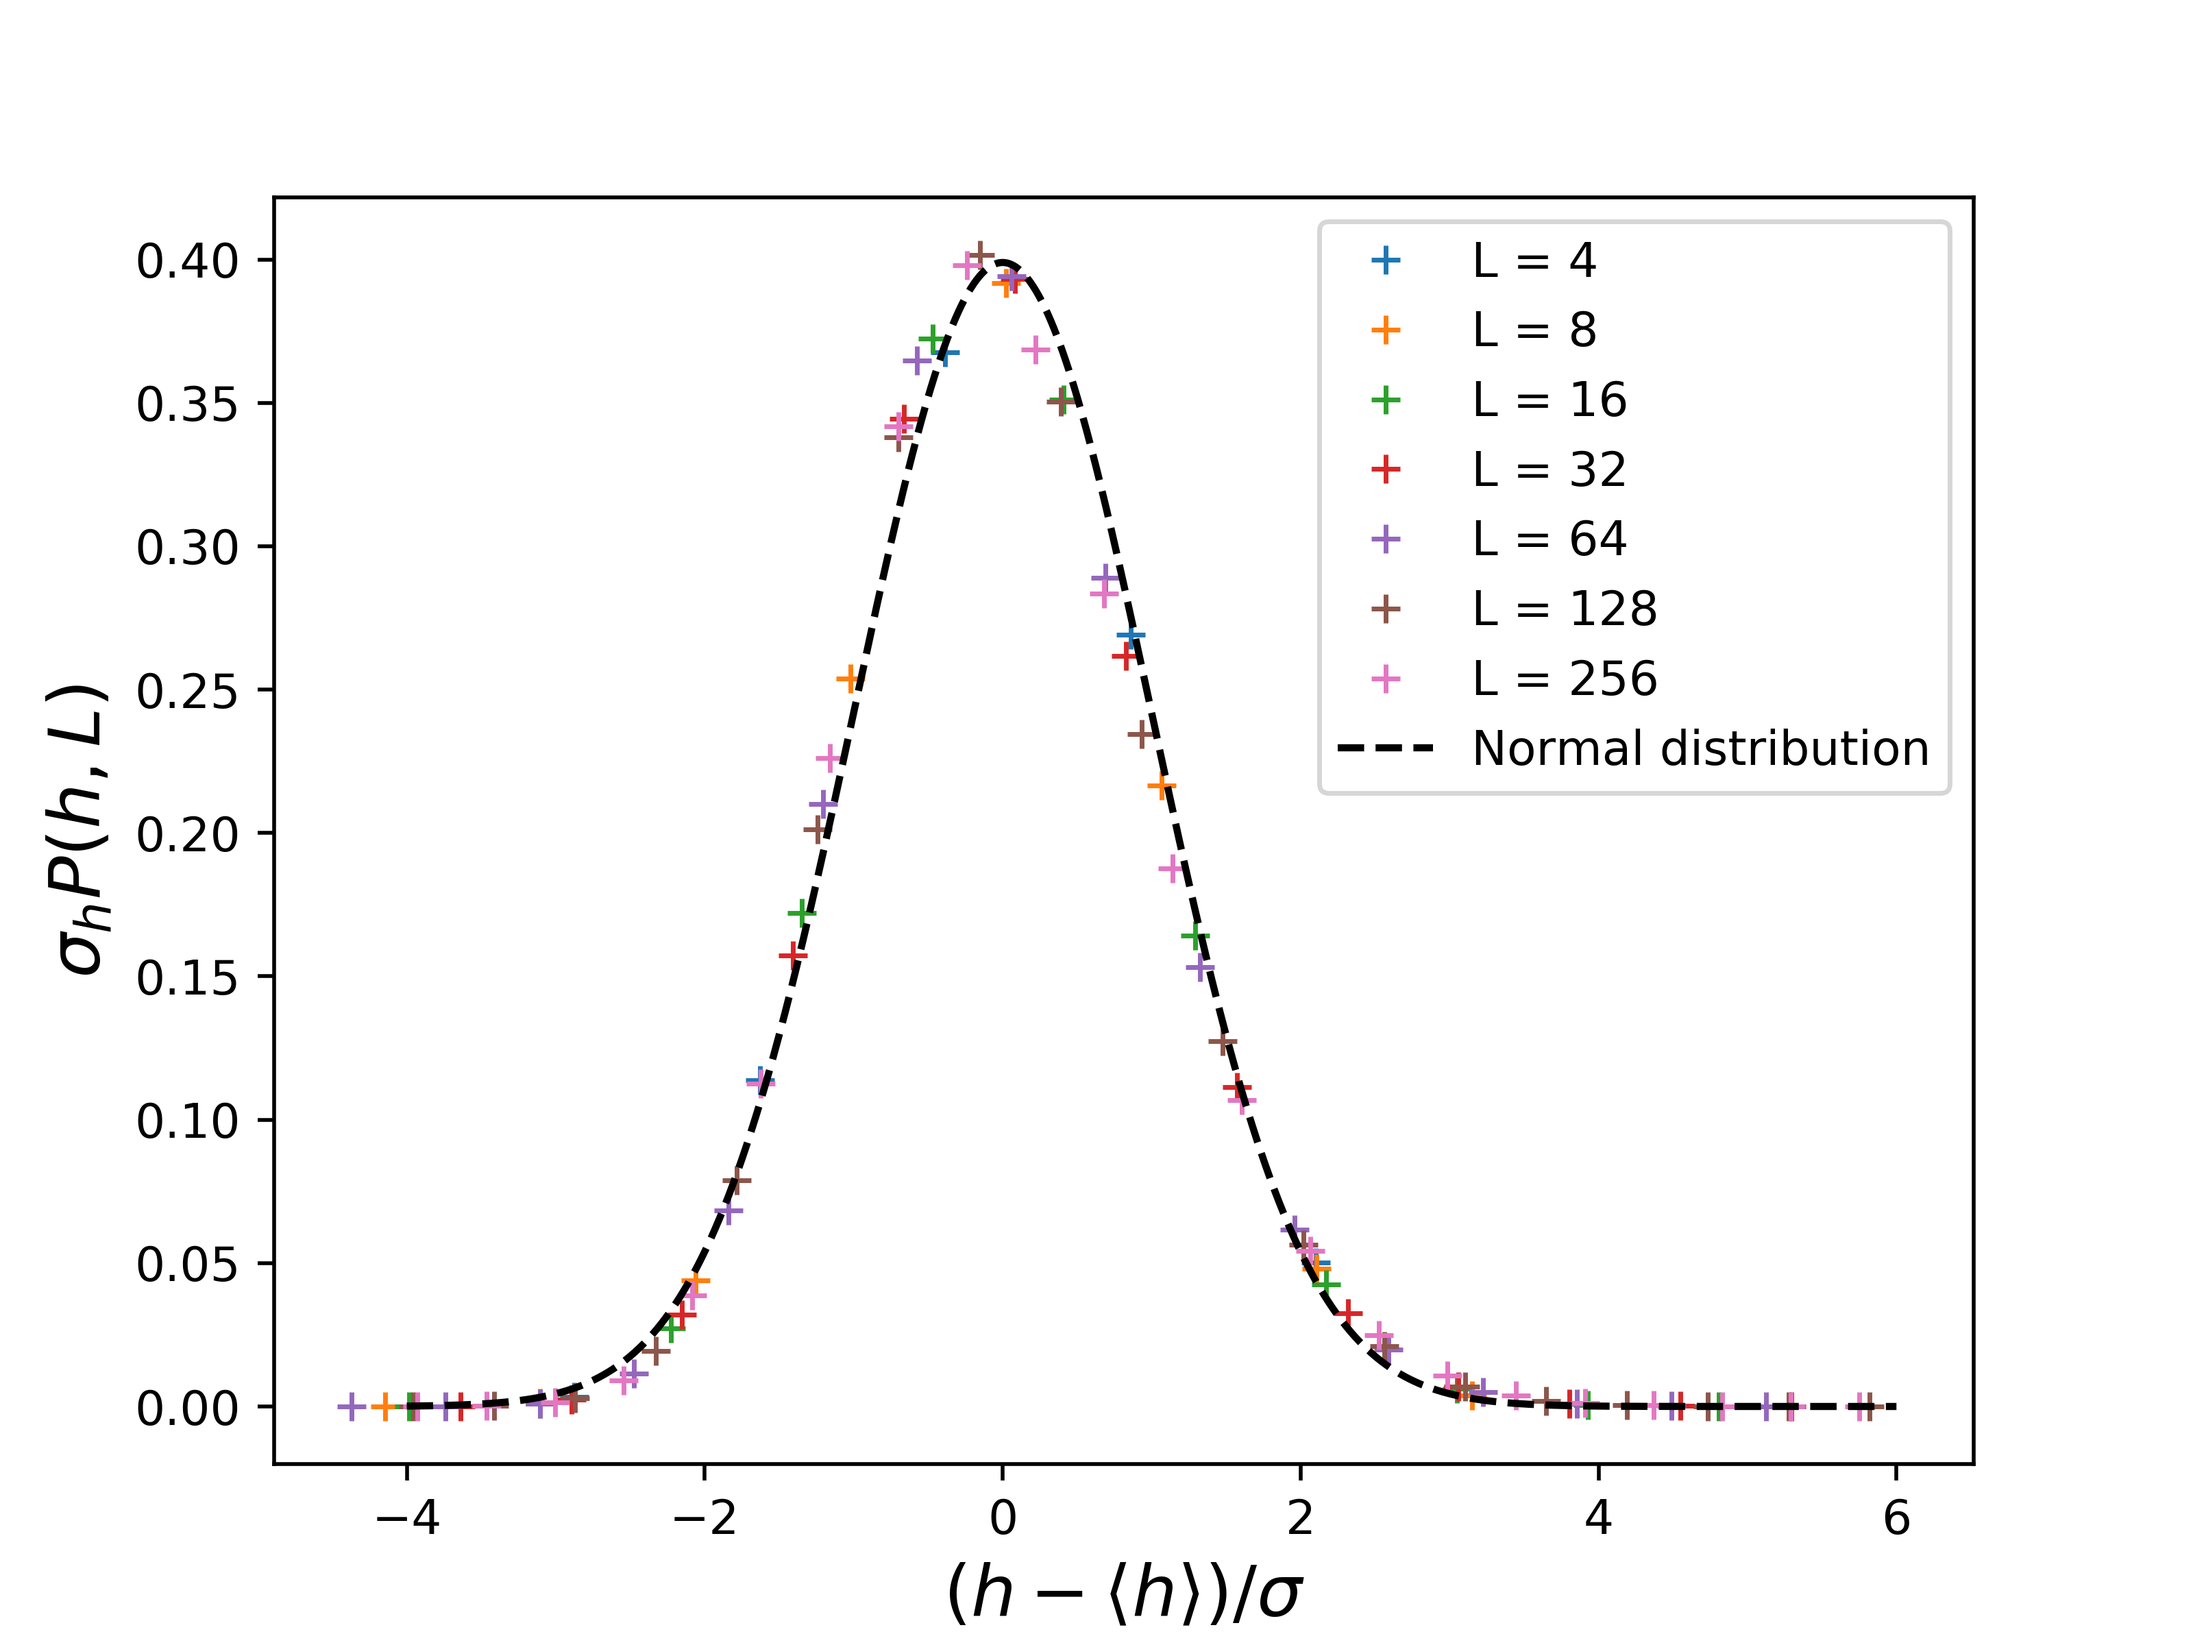
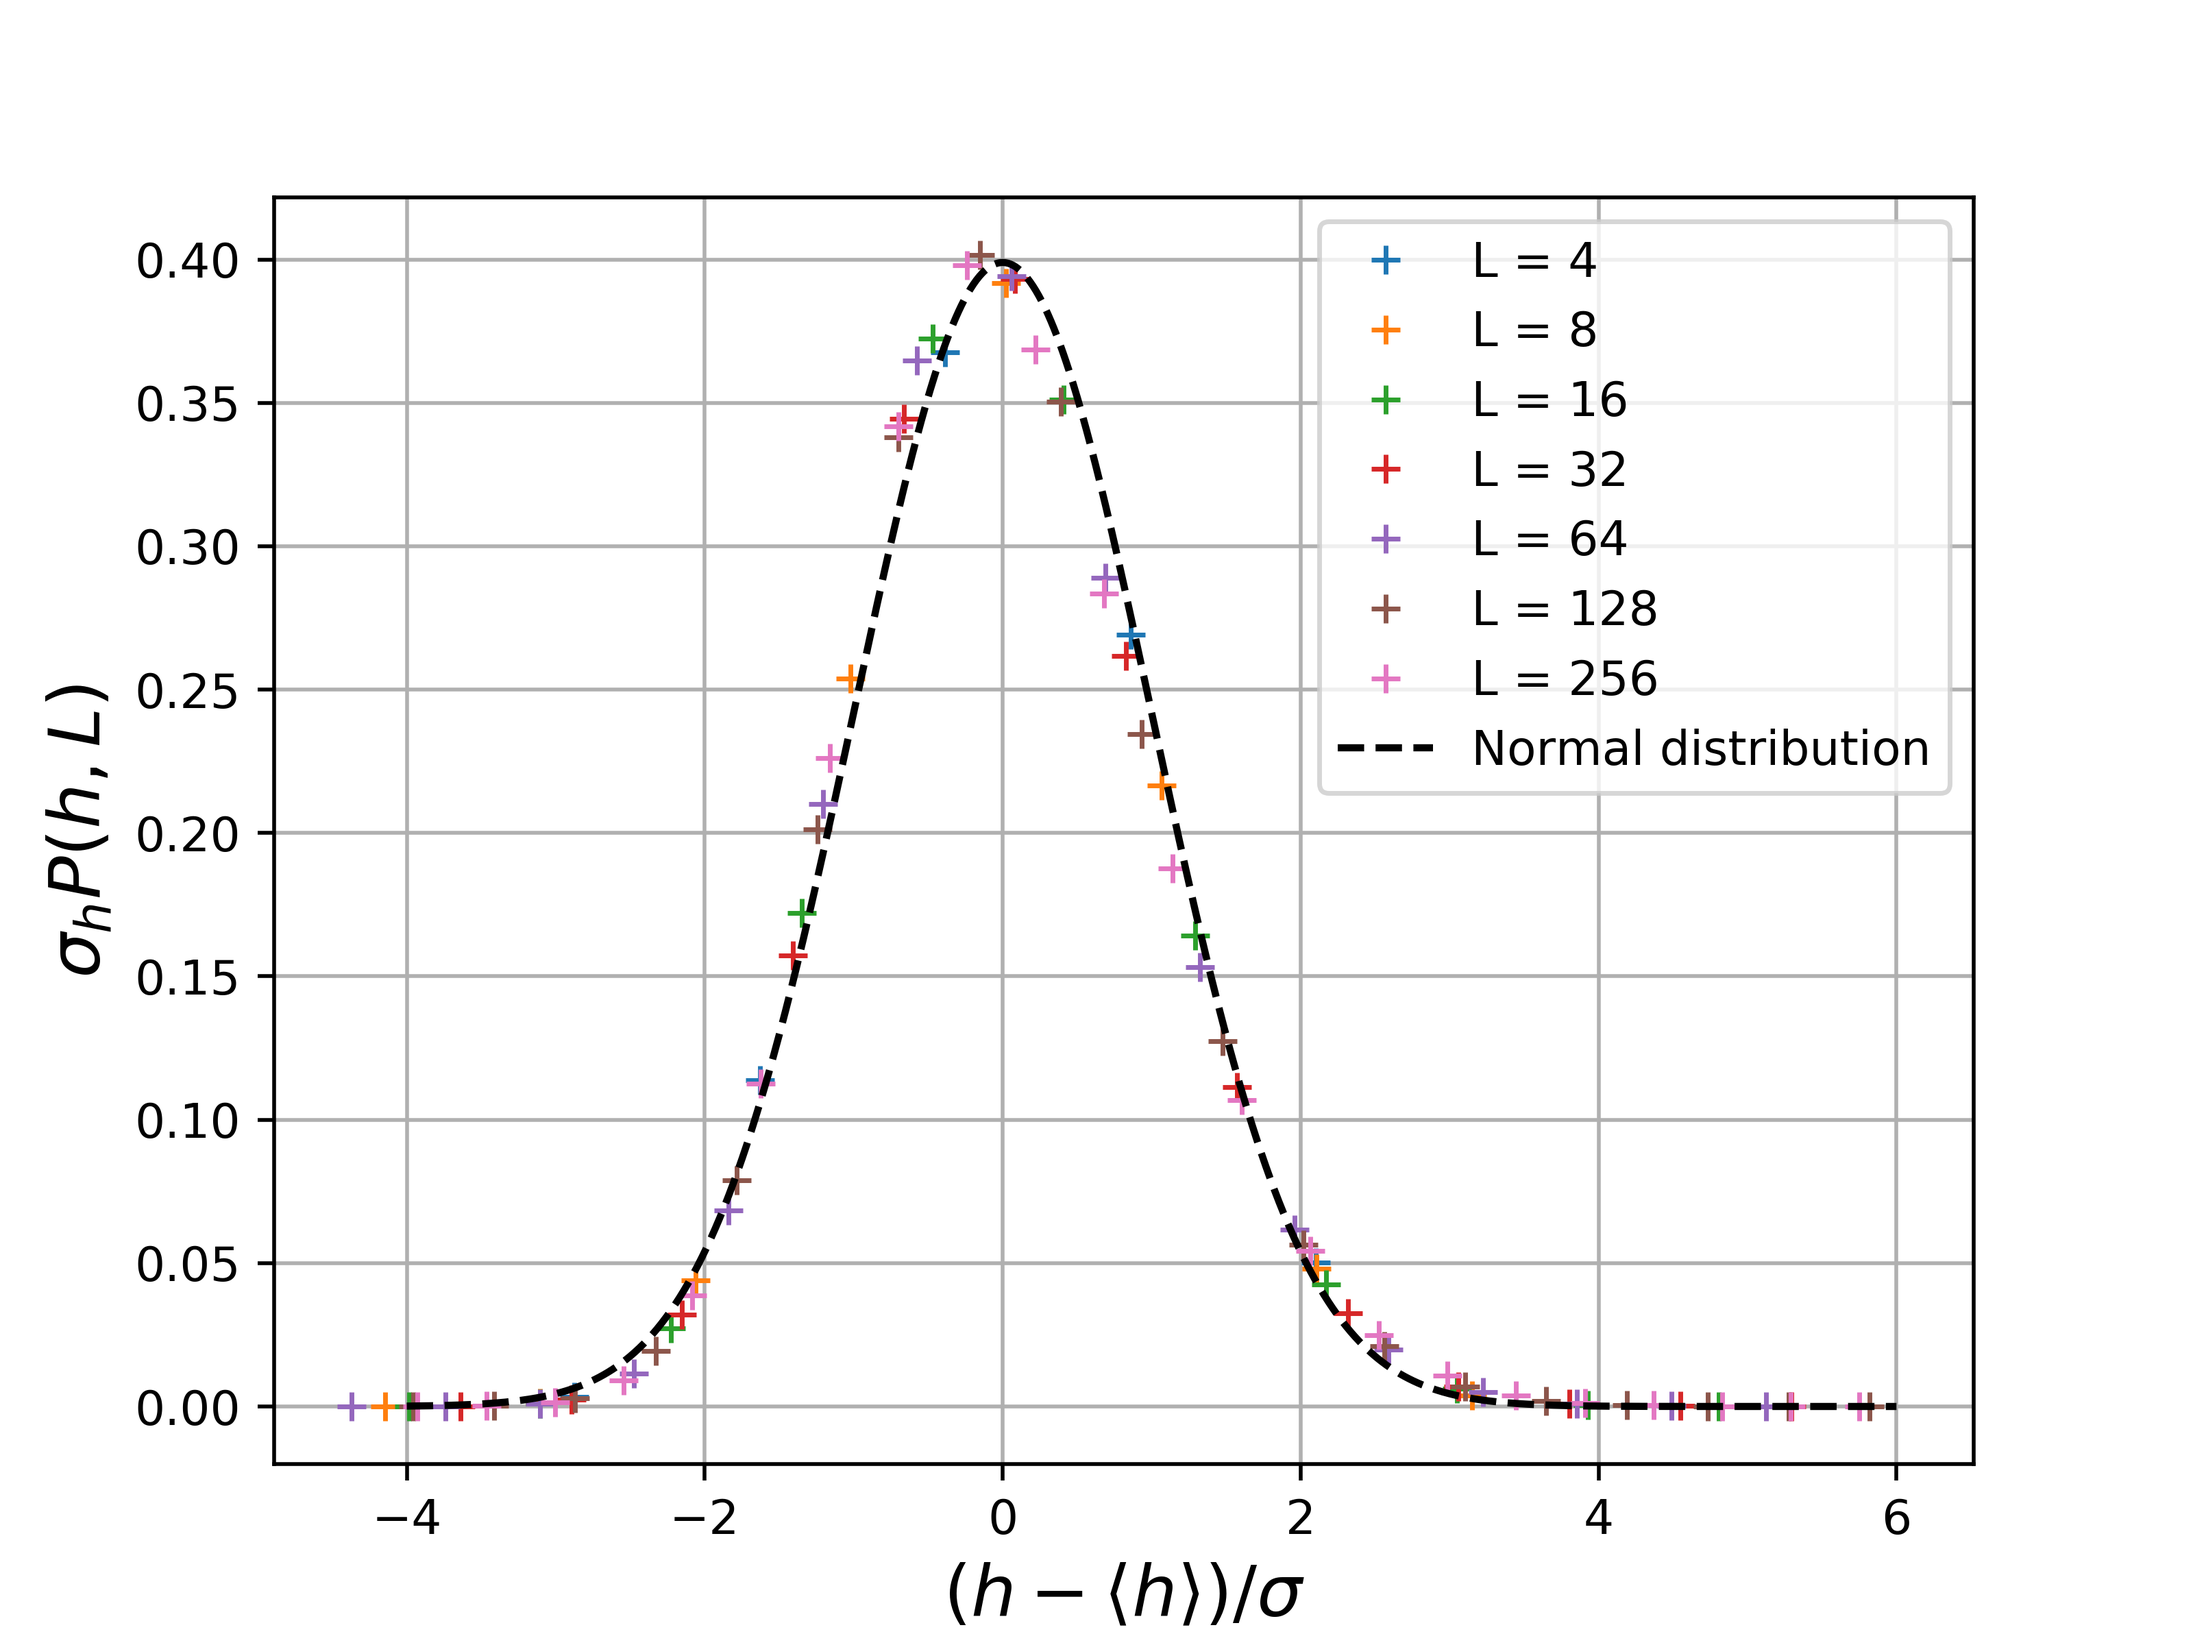
final  touches2

diff --git a/ComplexProject.py b/ComplexProject.py
@@ -11,7 +11,7 @@ import matplotlib.pyplot as plt
 import pickle
 from scipy.optimize import curve_fit as cf
 import re
-import math as m
+import math
 import scipy.stats as stat
 
 L = 16                  ##################
@@ -108,7 +108,7 @@ def Run(L, relPeriods = 1000):
         while changes != []:
             changes = list(dict.fromkeys(RelaxSelect(L, changes))) 
         if SteadyState == True:
-            #break
+            break
             #tc.append(totT)
             #pileH.append(totH)
             s_sizes.append(s)
@@ -177,6 +177,7 @@ plt.plot(datax['x64'],datay['y64'], label = 'L = 64')
 plt.plot(datax['x128'],datay['y128'], label = 'L = 128')
 plt.plot(datax['x256'],datay['y256'], label = 'L = 256')
 plt.xlabel('$t$', fontsize = 15)
+plt.grid()
 plt.ylabel('$h(t;L)$', fontsize = 15)
 plt.legend(loc = 'upper left', fontsize = 10)
 plt.savefig('/home/adam/Desktop/work/3rd Year/Complexity&Networks/Oslo model project/2a',dpi=500)
@@ -208,7 +209,7 @@ with open('/home/adam/Desktop/work/3rd Year/Complexity&Networks/Oslo model proje
     pickle.dump(iterations,f)
 #%%
 
-with open('/home/adam/Desktop/work/3rd Year/Complexity&Networks/Oslo model project/2bcData', 'rb') as f:
+with open('/home/adam/Desktop/work/3rd Year/Complexity&Networks/Oslo model project/2bcData2', 'rb') as f:
     iterations = pickle.load(f)
 
 avg = []
@@ -224,13 +225,18 @@ def Fit(L, a, b):
 
 popt, pcov = cf(Fit, Systems, avg)
 
-print(popt,pcov)
+print('The slope is ', popt[1], ' pm ', np.sqrt(pcov[0][0]))
+print('The intercept is ', popt[0], ' pm ', np.sqrt(pcov[1][1]))
 
-plt.plot(Systems, avg, '--bo', label = 'data')
-plt.plot(Systems, Fit(Systems,*popt), '-r', label = 'fit')
+x = np.linspace(4,260,10000)
+plt.plot(Systems, avg, 'bo', label = 'data')
+plt.plot(x, Fit(x,*popt), '-r', label = 'fit')
 plt.xlabel('$L$', fontsize=15)
 plt.ylabel(r'$\langle t_{c}(L) \rangle$', fontsize=15)
+plt.yscale('log')
+plt.xscale('log')
 plt.legend(fontsize=10)
+plt.grid()
 plt.savefig('/home/adam/Desktop/work/3rd Year/Complexity&Networks/Oslo model project/2b',dpi=500)
 
 #%%
@@ -289,6 +295,7 @@ plt.plot(datax['x128'],datay['y128'], label = 'L = 128')
 plt.plot(datax['x256'],datay['y256'], label = 'L = 256')
 plt.xscale('log')
 plt.yscale('log')
+plt.grid()
 plt.xlabel(r'$t/L^{2}$',fontsize=15)
 plt.ylabel(r'$\tilde{h}/L$', fontsize=15)
 plt.legend(loc = 'lower right', fontsize=10)
@@ -338,21 +345,30 @@ def Corr(L, a0, a1, w1):
     H = a0*L - a0*a1*(L**(1-w1))
     return H
 
+def Lin(L, a, b):
+    H = a*L + b
+    return H
+    
 #def Corr2(L,a0,a1,a2,w1,w2):
 #    H = a0*L - a0*a1*(L**(1-w1)) + a0*a1*a2*(L**(1-w2))
 #    return H
 
 popt, pcov = cf(Corr, Systems, heights)
+poptl, pcovl = cf(Lin, Systems, heights)
 #popt2, pcov2 = cf(Corr2, Systems, heights)
-
-print(popt, np.sqrt(pcov))
-#print(popt2, pcov2)
-plt.plot(Systems, heights, '--bo', label = 'data')
-plt.plot(Systems, Corr(Systems,*popt), '-r', label = 'two term fit')
+x = np.linspace(0,260,10000)
+print('a0 is ', popt[0], ' pm ',  np.sqrt(pcov[0][0]))
+print('a1 is ', popt[1], ' pm ',  np.sqrt(pcov[1][1]))
+print('w0 is ', popt[2], ' pm ',  np.sqrt(pcov[2][2]))
+plt.plot(Systems, heights, 'bo', label = 'data')
+plt.plot(x, Lin(x,*poptl), '--k', label = 'single term fit')
+plt.plot(x, Corr(x,*popt), '-r', label = 'two term fit')
+plt.plot
 #plt.plot(Systems, Corr2(Systems,*popt2), '-g', label = 'three term fit')
 plt.xlabel('$L$', fontsize = 15)
 plt.ylabel(r'$\langle h(t;L) \rangle_{t}$', fontsize = 15)
-plt.legend(fontsize = 10)
+plt.grid()
+plt.legend(fontsize = 15)
 plt.show()
 plt.savefig('/home/adam/Desktop/work/3rd Year/Complexity&Networks/Oslo model project/2e', dpi=500)
 
@@ -374,11 +390,15 @@ def Fit(L, a, b):
     return R
 
 popt, pcov = cf(Fit, Systems, stdevs)
-print(popt, np.sqrt(pcov))
+print('Slope is ', popt[1], ' pm ', np.sqrt(pcov[1][1]))
+print('Intercept is ', popt[0], ' pm ', np.sqrt(pcov[0][0]))
 plt.plot(Systems, stdevs, 'bo', label = 'data')
 plt.plot(Systems, Fit(Systems, *popt), '-r', label = 'fit')
+plt.xscale('log')
+plt.yscale('log')
 plt.xlabel('$L$', fontsize = 15)
 plt.ylabel(r'$\sigma_{h}(L)$', fontsize = 15)
+plt.grid(which = 'both')
 plt.legend(fontsize = 10)
 plt.show()
 plt.savefig('/home/adam/Desktop/work/3rd Year/Complexity&Networks/Oslo model project/2f', dpi=500)
@@ -409,6 +429,7 @@ plt.plot(Config64, Heights64, label = 'L = 64')
 plt.plot(Config128, Heights128, label = 'L = 128')
 plt.plot(Config256, Heights256, label = 'L = 256')
 plt.legend(fontsize = 10)
+plt.grid()
 plt.xlabel('$h$', fontsize = 15)
 plt.ylabel(r'$P(h,L)$', fontsize = 15)
 plt.savefig('/home/adam/Desktop/work/3rd Year/Complexity&Networks/Oslo model project/2ga', dpi=500)
@@ -431,10 +452,10 @@ C = globals()
 
 for i in Systems:
     H['Heights{0}'.format(i)] = [value for key, value in heightProbs.items() if 'L{0}'.format(i) in key]
-    H['Heights{0}'.format(i)] = [x*(stdevs[int(m.log(i,2)-2)])/sum(H['Heights{0}'.format(i)]) for x in H['Heights{0}'.format(i)]]
+    H['Heights{0}'.format(i)] = [x*(stdevs[int(math.log(i,2)-2)])/sum(H['Heights{0}'.format(i)]) for x in H['Heights{0}'.format(i)]]
     C['Config{0}'.format(i)] = [key for key, value in heightProbs.items() if 'L{0}'.format(i) in key]
     C['Config{0}'.format(i)] = [int(re.sub('L{0}-H'.format(i),'',x)) for x in C['Config{0}'.format(i)]]
-    C['Config{0}'.format(i)] = [(x-heights[int(m.log(i,2)-2)])/stdevs[int(m.log(i,2)-2)] for x in C['Config{0}'.format(i)]]
+    C['Config{0}'.format(i)] = [(x-heights[int(math.log(i,2)-2)])/stdevs[int(math.log(i,2)-2)] for x in C['Config{0}'.format(i)]]
 
    
 plt.plot(Config4, Heights4, '+', label = 'L = 4')
@@ -447,6 +468,7 @@ plt.plot(Config256, Heights256, '+', label = 'L = 256')
 x = np.linspace(-4,6,1000)
 plt.plot(x,stat.norm.pdf(x,0,1), '--k', label = 'Normal distribution')
 plt.legend(fontsize = 10)
+plt.grid()
 plt.xlabel(r'$(h - \langle h \rangle ) / \sigma$', fontsize = 15)
 plt.ylabel(r'$\sigma_h P(h,L)$', fontsize = 15)
 plt.savefig('/home/adam/Desktop/work/3rd Year/Complexity&Networks/Oslo model project/2gb', dpi=500)
@@ -480,10 +502,10 @@ with open('/home/adam/Desktop/work/3rd Year/Complexity&Networks/Oslo model proje
 '''
 3a binned
 '''
-with open('/home/adam/Desktop/work/3rd Year/Complexity&Networks/Oslo model project/3aval', 'rb') as f:
+with open('/home/adam/Desktop/work/3rd Year/Complexity&Networks/Oslo model project/3aval2', 'rb') as f:
      aval_size_data = pickle.load(f)
 
-def logbin(data, scale = 2, zeros = False):
+def logbin(data, scale = 1.3, zeros = False):
     """
     Taken from Max Falkenberg McGillivray
     mff113@ic.ac.uk
@@ -540,6 +562,7 @@ plt.plot(x128,y128, '-',label='L128')
 plt.plot(x256,y256, '-',label='L256')
 plt.xscale('log')
 plt.yscale('log')
+plt.grid()
 plt.legend(fontsize = 10)
 plt.xlabel('s', fontsize = 15)
 plt.ylabel(r'$\tilde{P}_{N}(s;L)$', fontsize = 15)
@@ -547,57 +570,154 @@ plt.savefig('/home/adam/Desktop/work/3rd Year/Complexity&Networks/Oslo model pro
 
 #%%
 '''
-3ab
+3abD  log data and assign a linear fit better
 '''
 max_aval = []
 for i in Systems:
     max_aval.append(max(aval_size_data['L{}'.format(i)]))
     
-def Power(L,a,D):
-    S = a*L**D
+def Dee(L,D,a):
+    S = D*L + a
     return S
 
-popt, pcov = cf(Fit, Systems, max_aval)
-print('D', popt, np.sqrt(pcov))
-plt.plot(Systems, stdevs, 'bo', label = 'data')
-plt.plot(Systems, Power(Systems, *popt), '-r', label = 'fit')
-plt.yscale('log')
-plt.xlabel('$L$', fontsize = 15)
-plt.ylabel(r'$s_{max}$', fontsize = 15)
+x = np.log(np.linspace(4,256,10000))
+
+SL = np.log(Systems)
+MAL = np.log(max_aval)
+
+popD, pcovD = cf(Dee, SL, MAL, p0 = np.array([2.20,0.412]))
+print('Slope is ', popD[0], 'pm',  np.sqrt(pcovD[0][0]))
+print('Intercept is ', popD[1], 'pm',  np.sqrt(pcovD[1][1]))
+plt.plot(SL, MAL, 'bo', label = 'data')
+plt.plot(x, Dee(x, *popD), '-r', label = 'fit')
+#plt.yscale('log')
+#plt.xscale('log')
+plt.grid(which = 'both')
+plt.xlabel('$\log{L}$', fontsize = 15)
+plt.ylabel(r'$\log{s_{max}}$', fontsize = 15)
 plt.legend(fontsize = 10)
 plt.show()
 plt.savefig('/home/adam/Desktop/work/3rd Year/Complexity&Networks/Oslo model project/3abD', dpi=500)
 
+#%%
+'''
+3abTau
+'''
+def Tau(s, a, t):
+    P = a*s**-t
+    return P
 
+i = 0
+while x256[i] < min(x256)*100:
+    i += 1
+k = -1
+while x256[k] > max(x256)/100:
+    k -= 1
 
+x = x256[i:k]
+y = y256[i:k]
+
+p0 = np.array([0.7,1.55])
+popT, pcovT = cf(Tau, x, y, p0)
+print('tau', popT, np.sqrt(pcovT))
+plt.plot(x256,y256, 'kx',label='L256')
+plt.plot(x, Tau(x, *popT), '-r', label='fit')
+plt.xscale('log')
+plt.yscale('log')
+plt.grid()
+plt.legend(fontsize = 10)
+plt.xlabel('s', fontsize = 15)
+plt.ylabel(r'$\tilde{P}_{N}(s;L)$', fontsize = 15)
+plt.savefig('/home/adam/Desktop/work/3rd Year/Complexity&Networks/Oslo model project/3abT', dpi=500)
+
+#%%
+'''
+3ab
+'''
+plt.plot(x4/(Systems[0]**popD[0]),y4*(x4**popT[1]), '-', label='L4')
+plt.plot(x8/(Systems[1]**popD[0]),y8*(x8**popT[1]), '-',label='L8')
+plt.plot(x16/(Systems[2]**popD[0]),y16*(x16**popT[1]), '-', label='L16')
+plt.plot(x32/(Systems[3]**popD[0]),y32*(x32**popT[1]), '-',label='L32')
+plt.plot(x64/(Systems[4]**popD[0]),y64*(x64**popT[1]), '-',label='L64')
+plt.plot(x128/(Systems[5]**popD[0]),y128*(x128**popT[1]), '-',label='L128')
+plt.plot(x256/(Systems[6]**popD[0]),y256*(x256**popT[1]), '-',label='L256')
+plt.xscale('log')
+plt.yscale('log')
+plt.grid()
+plt.legend(fontsize = 10)
+plt.xlabel('$s/L^{D}$', fontsize = 15)
+plt.ylabel(r'$s^{\tau_{s}}\tilde{P}_{N}(s;L)$', fontsize = 15)
+plt.savefig('/home/adam/Desktop/work/3rd Year/Complexity&Networks/Oslo model project/3ab', dpi=500)
      
 #%%
 '''
 3b
 '''
-with open('/home/adam/Desktop/work/3rd Year/Complexity&Networks/Oslo model project/3aval', 'rb') as f:
+with open('/home/adam/Desktop/work/3rd Year/Complexity&Networks/Oslo model project/3aval2', 'rb') as f:
      aval_size_data = pickle.load(f)
 
-moments = [[] for x in range(4)]
-for k in [1,2,3,4]:
+no_moments = 4
+moments = [[] for x in range(no_moments)]
+for k in range(1,no_moments+1):
     for i in Systems:
         m = []
         for s in aval_size_data['L{}'.format(i)]:
             m.append(s**k)
         moments[k-1].append(sum(m)/len(m))
-        
-plt.plot(Systems, moments[0], '--bo', label = '$k=1$')
-plt.plot(Systems, moments[1], '--ro', label = '$k=2$')
-plt.plot(Systems, moments[2], '--mo', label = '$k=3$')
-plt.plot(Systems, moments[3], '--go', label = '$k=4$')
+    
+#def Kfit(s, a, b):
+#    K = a*s + b
+#    return K
+
+def Kfit(s, a, b):
+    K = b*s**a
+    return K
+
+SL = np.log(Systems)
+ML = np.log(moments)
+
+popt = [[]for x in range(no_moments)]    
+pcov = [[]for x in range(no_moments)]   
+for i in range(no_moments):
+    popt[i], pcov[i] = cf(Kfit, Systems, moments[i], p0 = np.array([2.2*(i+0.5),1]))
+    print('K={}'.format(i+1) , popt[i], pcov[i])
+
+for j in range(no_moments):    
+    plt.plot(Systems, moments[j], 'o', label = '$k={}$'.format(j+1))
+    plt.plot(Systems, Kfit(Systems, *popt[j]), '-', label = 'Fit for $k={}$'.format(j+1))
+
+plt.xscale('log')
 plt.yscale('log')
-#plt.xscale('log')
 plt.legend()
+plt.grid()
 plt.xlabel('$L$', fontsize = 15)
 plt.ylabel(r'$\langle s^{k} \rangle$', fontsize = 15)
 plt.savefig('/home/adam/Desktop/work/3rd Year/Complexity&Networks/Oslo model project/3b',dpi=500)
 
-    
+#%%
+'''
+3b moments analysis
+'''        
+x = []
+y = []
+for i in range(no_moments):
+    x.append(i+1)
+    y.append(popt[i][0])
 
-        
-    
+def Line(x, a, b):
+    y = a*x + b
+    return y
+
+x = np.array(x)
+y = np.array(y)
+opt, cov = cf(Line, x, y)
+print('The estimate for D is ', opt[0], ' pm ',  np.sqrt(cov[0][0]))
+print('The estimate for tau is ', 1-(opt[1]/opt[0]), ' pm ',  np.sqrt(cov[0][0])+np.sqrt(cov[1][1]))
+ 
+plt.plot(x,y, 'o', label = 'data')
+plt.plot(x,Line(x,*opt), '--', label = 'fit')
+plt.grid()
+plt.legend()
+plt.xlabel('$k$', fontsize = 15)
+plt.ylabel(r'$D(1+k-\tau_{s})$', fontsize = 15)
+plt.savefig('/home/adam/Desktop/work/3rd Year/Complexity&Networks/Oslo model project/3bb',dpi=500)
